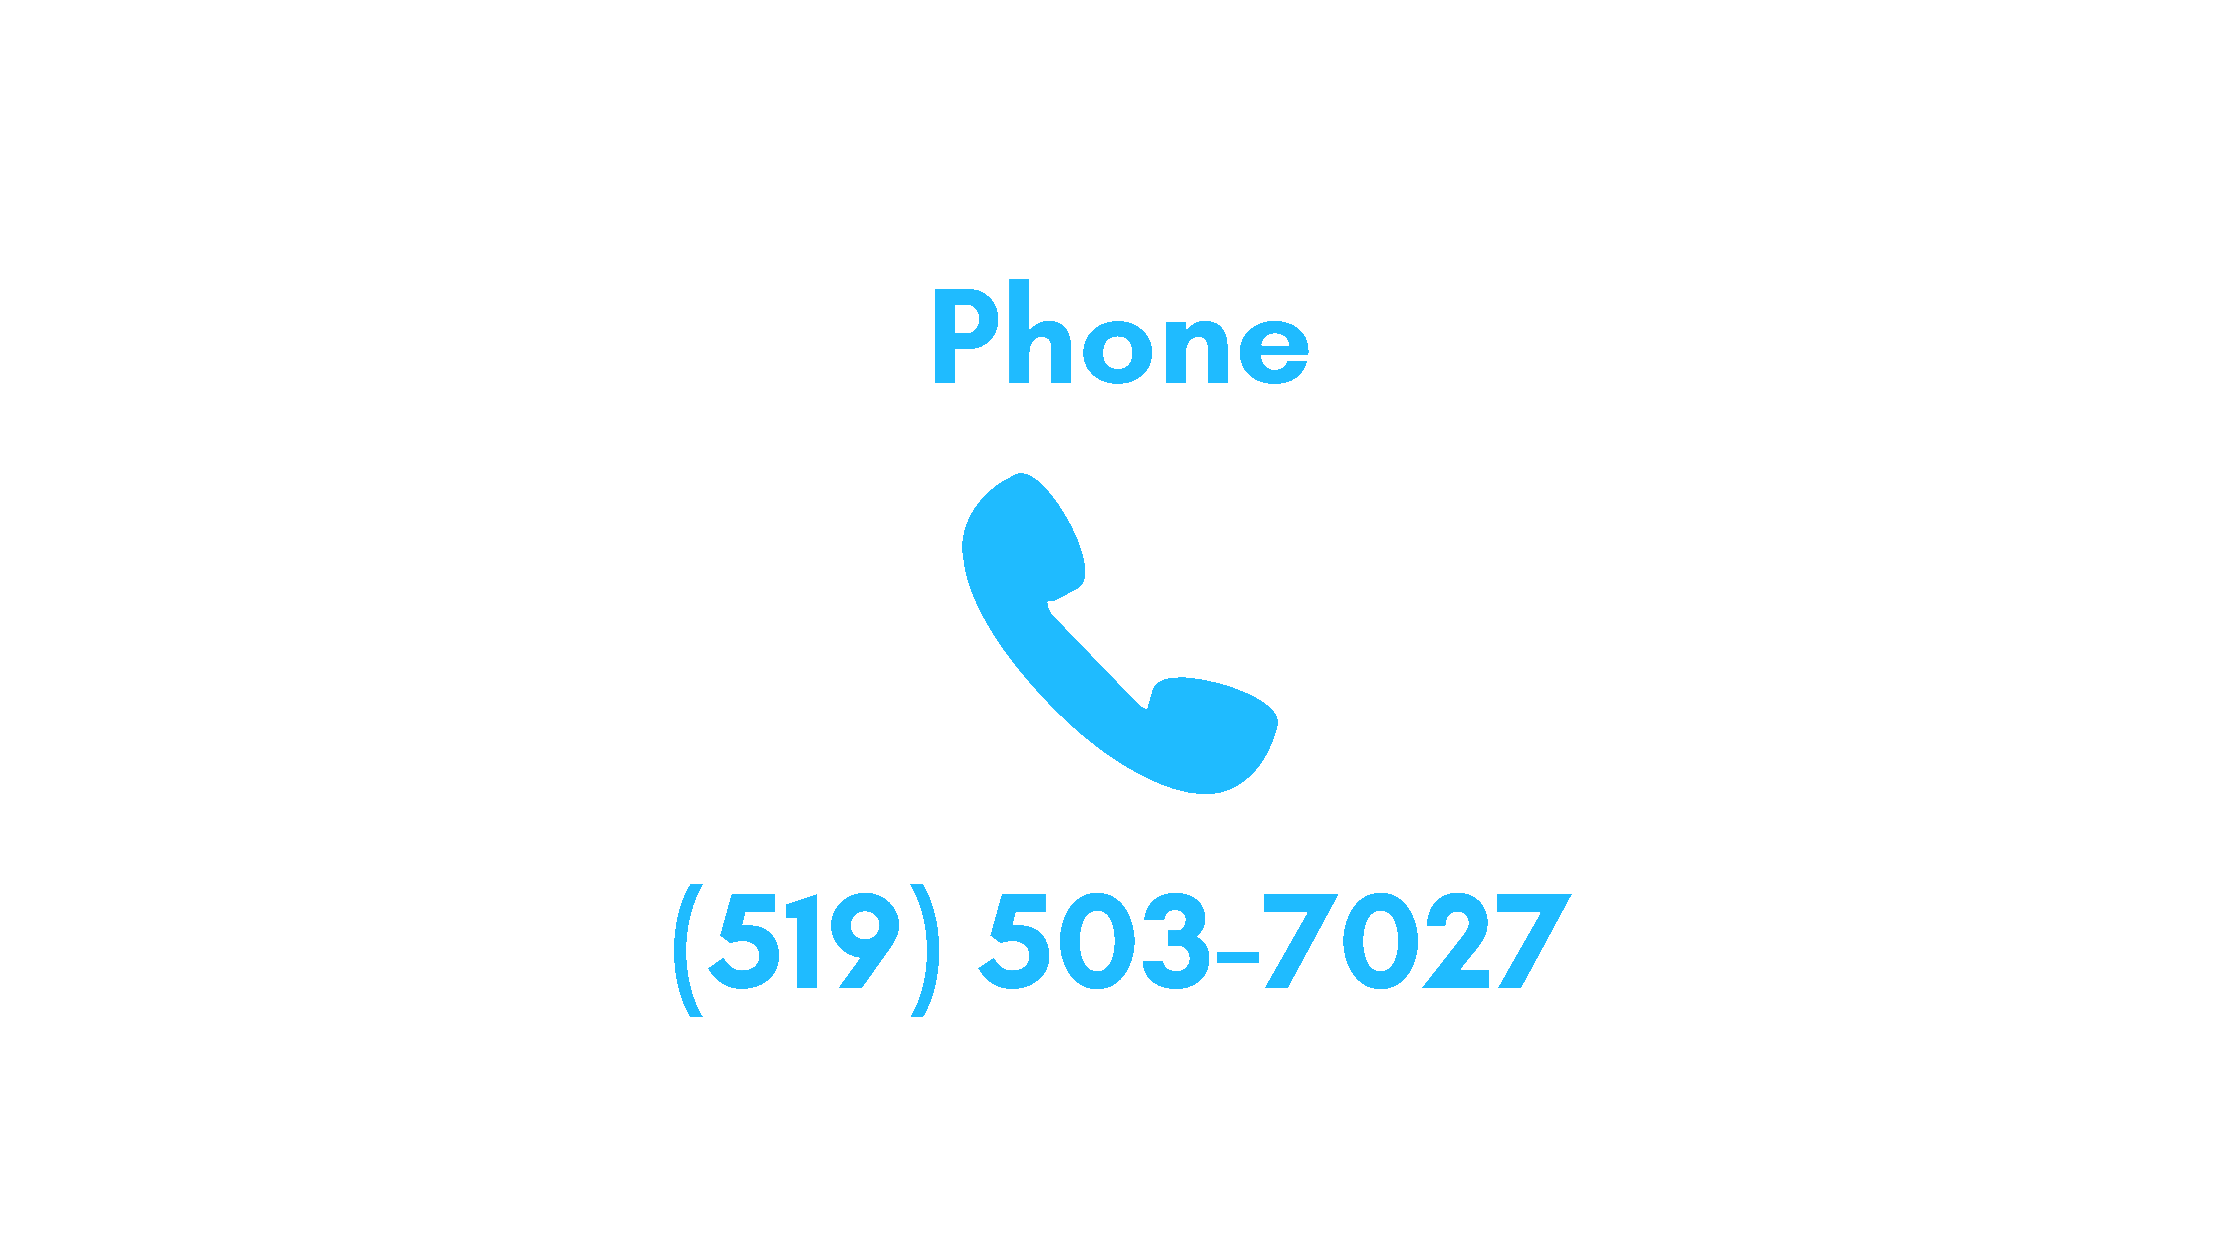
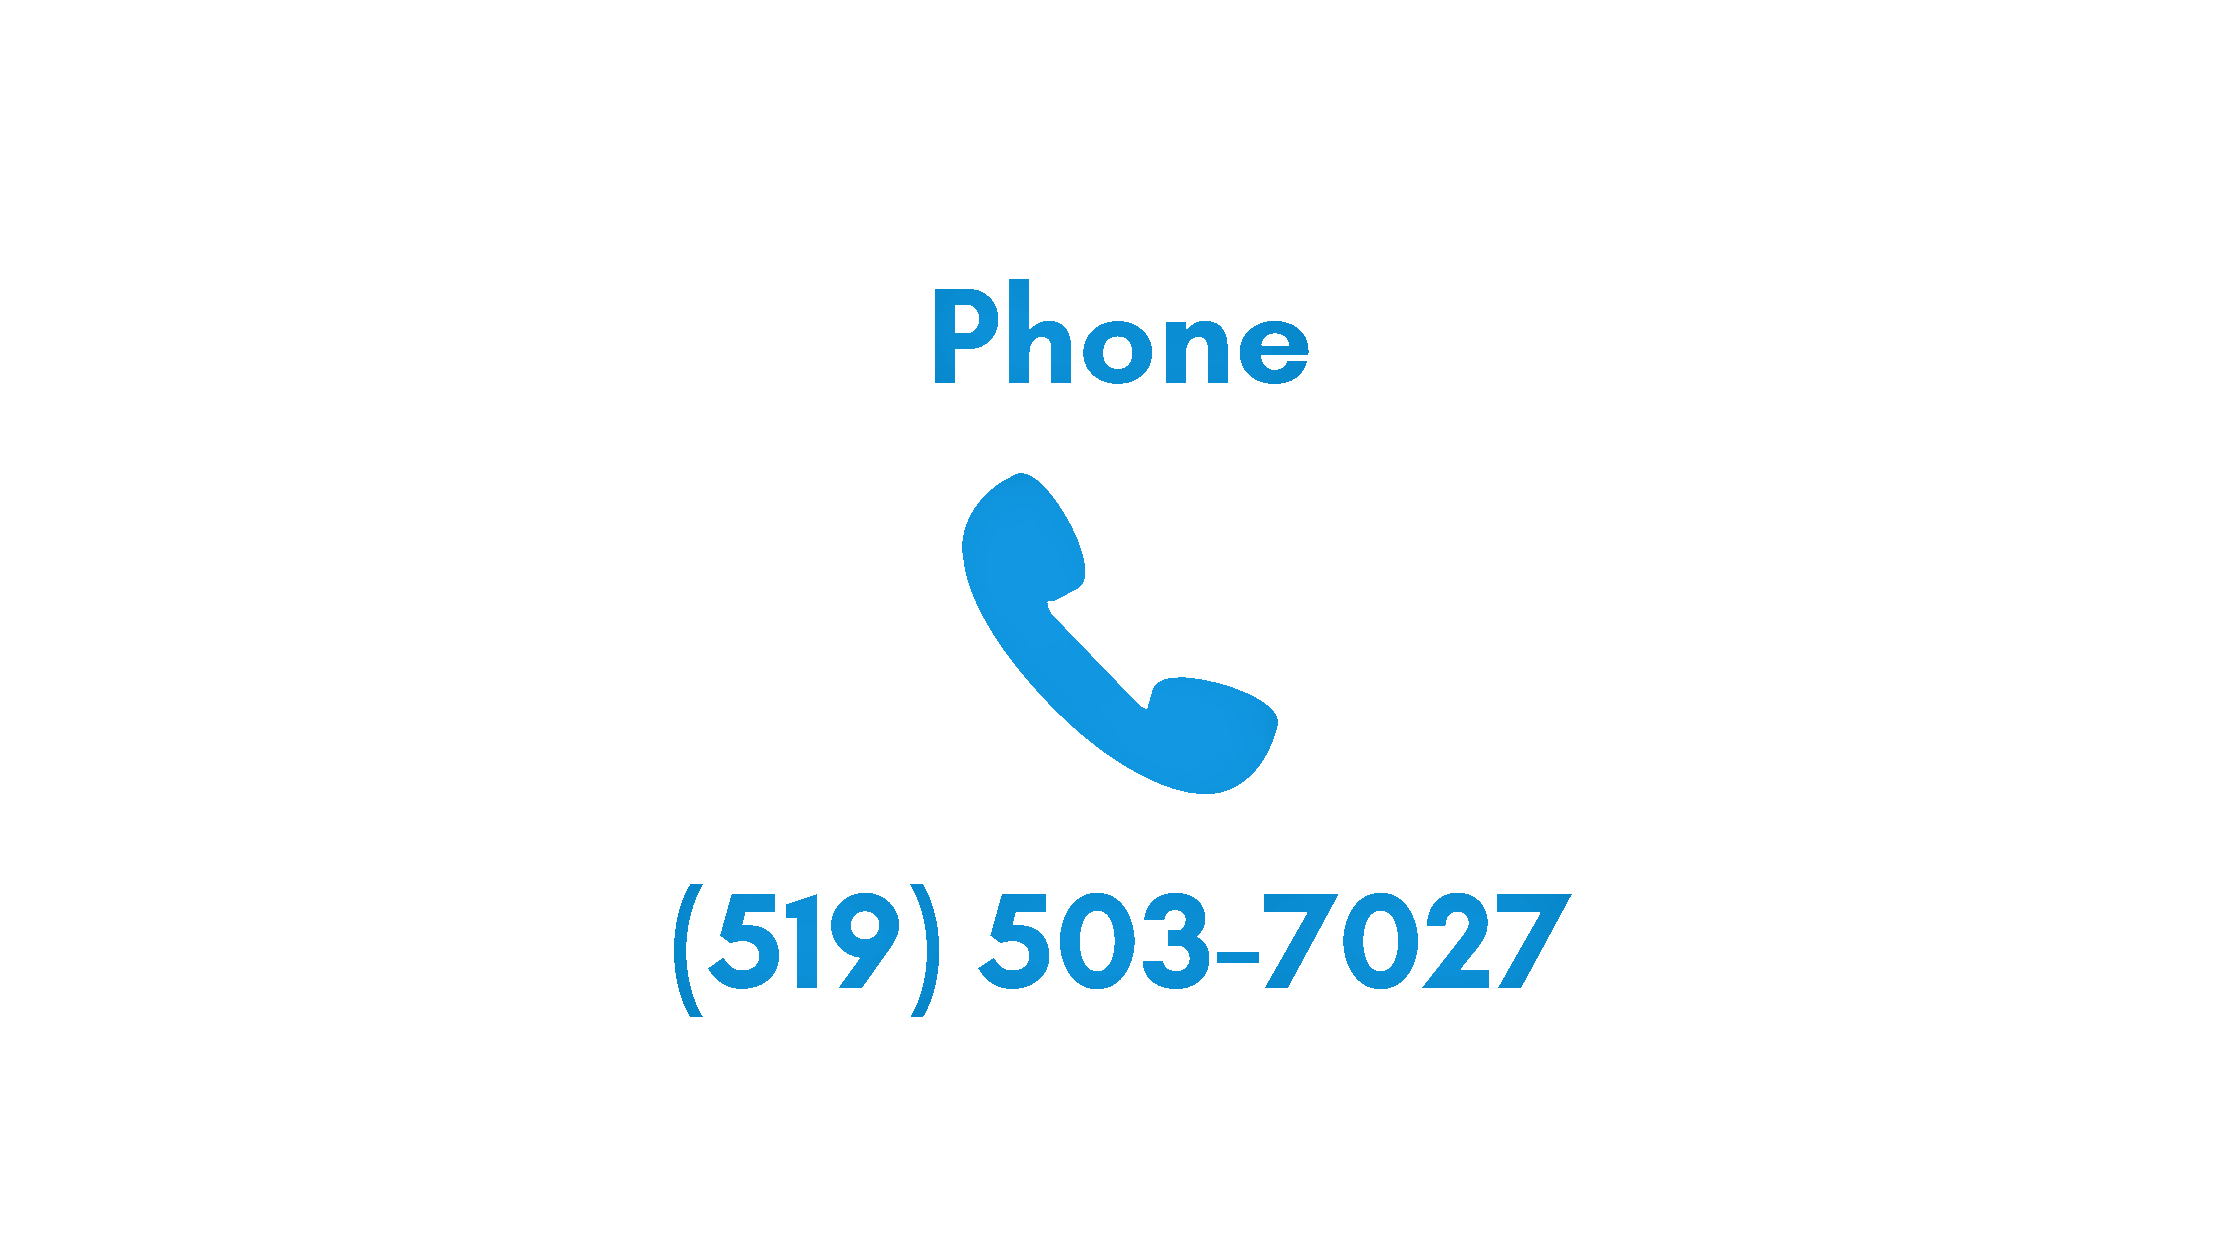
images+

Changed region(s): [[0.2812, 0.7119, 0.7188, 0.8048], [0.4062, 0.3714, 0.5938, 0.65], [0.4062, 0.2167, 0.5938, 0.3095]]

diff --git a/assets/css/styles.css b/assets/css/styles.css
@@ -1,2 +1,2 @@
 /*Minified by Sayma Khan*/
-@import url(https://fonts.googleapis.com/css2?family=Poppins:wght@400;600;700&display=swap);:root{--header-height:3.3rem;--font-semi:600}:root{--home-bg:url('../img/main/day.png')}:root{--title-color:#c8e3f8;--first-color:#4070F4;--second-color:#03022b;--white-color:#ffffff;--social-color-hover:#c8e3f8;--social-color:#5993df;--ombre1:#99ccff;--ombre2:#ffcc99}:root{--body-font:'Poppins',sans-serif;--big-font-size:2.5rem;--h2-font-size:1.25rem;--normal-font-size:0.938rem;--mini-font-size:1rem}@media screen and (min-width:768px){:root{--big-font-size:2.5rem;--h2-font-size:2rem;--normal-font-size:1rem;--mini-font-size:1rem}}:root{--mb-1:0.5rem;--mb-2:1rem;--mb-3:1.5rem;--mb-4:2rem;--mb-5:2.5rem;--mb-6:3rem}:root{--z-back:-10;--z-normal:1;--z-tooltip:10;--z-fixed:100}*,::after,::before{box-sizing:border-box}html{scroll-behavior:smooth}body{margin:var(--header-height) 0 0 0;font-family:var(--body-font);font-size:var(--normal-font-size);color:var(--second-color)}h1,h2,p{margin:0}ul{margin:0;padding:0;list-style:none}a{text-decoration:none}img{max-width:100%;height:auto;display:block}.section-title{position:relative;font-size:var(--h2-font-size);color:var(--first-color);margin-top:var(--mb-2);margin-bottom:var(--mb-4);text-align:center}.section-title::after{position:absolute;content:"";width:64px;height:.18rem;left:0;right:0;margin:auto;top:2rem;background-color:var(--first-color)}.section{padding-top:3rem;padding-bottom:2rem}.bd-grid{max-width:1024px;display:grid;grid-template-columns:100%;grid-column-gap:2rem;width:calc(100% - 2rem);margin-left:var(--mb-2);margin-right:var(--mb-2)}.l-header{width:100%;position:fixed;top:0;left:0;z-index:var(--z-fixed);background:url(../img/main/bgnav4.gif);box-shadow:0 1px 4px rgba(146,161,176,.15);background-color:#fff}.l-header{width:100%;position:fixed;top:0;left:0;z-index:var(--z-fixed);background-color:#fff;box-shadow:0 1px 4px rgba(146,161,176,.15)}.nav{height:var(--header-height);display:flex;justify-content:space-between;align-items:center;font-weight:var(--font-semi)}@media screen and (max-width:768px){.nav__menu{position:fixed;top:var(--header-height);right:-100%;width:80%;height:100%;padding:2rem;background-color:var(--second-color);transition:.5s}}.nav__item{margin-bottom:var(--mb-4)}.nav__link{position:relative;color:#fff}.nav__link:hover{position:relative}.nav__link:hover::after{position:absolute;content:"";width:100%;height:.18rem;left:0;top:2rem;background-color:var(--first-color)}.nav__logo{color:var(--second-color)}.nav__toggle{color:var(--second-color);font-size:1.5rem;cursor:pointer}.active::after{position:absolute;content:"";width:100%;height:.18rem;left:0;top:2rem;background-color:var(--first-color)}.show{right:0}.home{height:calc(100vh - 3rem);row-gap:1rem}.about__container{row-gap:2rem;text-align:left}.home__data{align-self:center}.home__title{font-size:var(--big-font-size);margin-bottom:var(--mb-5);color:#d3eafc;text-shadow:#0f0f10 2px 0 25px}.home__title-color{color:#57b1cc}.home__social{display:flex;flex-direction:column}.home__social-icon{width:max-content;margin-bottom:var(--mb-2);font-size:2.5rem;color:var(--social-color)}.mode__icon{width:max-content;margin-bottom:var(--mb-2);font-size:1.5rem}.home__social-icon:hover{color:var(--social-color-hover)}.home__img{position:absolute;right:0;bottom:0;width:295px}.home__img img{width:450px;border-radius:.5rem}.button{display:inline-block;background-color:var(--first-color);color:#fff;padding:.75rem 2.5rem;font-weight:var(--font-semi);border-radius:.5rem}.button:hover{box-shadow:0 10px 36px rgba(0,0,0,.15)}.about__container{row-gap:2rem;text-align:center}.about__subtitle{margin-bottom:var(--mb-2)}.about__img img{border-radius:.5rem}.about__text{text-shadow:0 10px 36px rgba(255,255,255,.2);font-size:1.1rem;text-align:justify}.skills__container{row-gap:2rem}.skills__subtitle{color:var(--first-color);margin-bottom:var(--mb-3)}.skills__name{display:inline-block;font-size:var(--mini-font-size);margin-right:var(--mb-2);margin-bottom:var(--mb-3);padding:.25rem .5rem;border-radius:.25rem;transition:.3s}.skills__name:hover{background-color:var(--first-color);color:var(--white-color);box-shadow:0 4px 25px rgba(28,28,28,.3)}.skills__img img{border-radius:.5rem}.work__container{row-gap:2rem}.work__img{box-shadow:0 4px 25px rgba(28,28,28,.4);border-radius:.5rem;overflow:hidden}.work__img img{transition:1s;cursor:pointer}.work__img img:hover{transform:scale(1.1)}.contact__input{width:100%;font-size:var(--normal-font-size);font-weight:var(--font-semi);padding:1rem;border-radius:.5rem;border:1.5px solid var(--second-color);outline:0;margin-bottom:var(--mb-4)}.contact__button{display:block;border:none;outline:0;font-size:var(--normal-font-size);cursor:pointer;margin-left:auto}.contact__img{border-radius:.5rem;overflow:hidden}.contact__img img{transition:1s;cursor:pointer}.contact__img img:hover{transform:scale(1.1)}.footer{background-color:var(--second-color);background:url(../img/main/bgnav.gif);box-shadow:0 1px 4px rgba(146,161,176,.15);color:#fff;text-align:center;font-weight:var(--font-semi);padding:1rem 0}.footer__title{font-size:2rem;margin-bottom:var(--mb-4)}.footer__social{margin-bottom:var(--mb-4)}.footer__icon{font-size:1.5rem;color:#fff;margin:0 var(--mb-2)}@media screen and (min-width:768px){body{margin:0}.section{padding-top:4rem;padding-bottom:3rem}.section-title{margin-bottom:var(--mb-6)}.section-title::after{width:80px;top:3rem}.nav{height:calc(var(--header-height) + 1rem)}.nav__list{display:flex;padding-top:0}.nav__item{margin-left:var(--mb-6);margin-bottom:0}.nav__toggle{display:none}.nav__link{color:var(--second-color)}.home{height:100vh}.home__data{align-self:flex-end}.home__social{padding-top:0;padding-bottom:2.5rem;flex-direction:row;align-self:flex-end}.home__social-icon{margin-bottom:0;margin-right:var(--mb-4)}.home__img{width:457px;bottom:15%}.about__container,.skills__container{grid-template-columns:repeat(2,1fr);align-items:center;text-align:initial}.about__img img{width:350px}.work__container{grid-template-columns:repeat(3,1fr);grid-template-rows:repeat(1,1fr);column-gap:2rem}.contact__form{width:360px}.contact__container{justify-items:center}}@media screen and (min-width:1024px){.bd-grid{margin-left:auto;margin-right:auto}.home__img{right:10%}}.dark-mode{background-color:#1c1c1c;color:#c8e3f8;--first-color:#7daae6;--home-bg:url('../img/main/night.png');--ombre1:#990099;--ombre2:#003399}.switch{position:relative;display:inline-block;width:60px;height:34px}.switch input{opacity:0;width:0;height:0}.slider{position:absolute;cursor:pointer;top:0;left:0;right:0;bottom:0;background-color:#ccc;-webkit-transition:.4s;transition:.4s}.slider:before{position:absolute;content:"";height:26px;width:26px;left:4px;bottom:4px;background-color:#fff;-webkit-transition:.4s;transition:.4s}input:checked+.slider{background-color:#4070f4}input:focus+.slider{box-shadow:0 0 1px #4070f4}input:checked+.slider:before{-webkit-transform:translateX(26px);-ms-transform:translateX(26px);transform:translateX(26px)}.slider.round{border-radius:34px}.slider.round:before{border-radius:50%}.tooltip{position:relative;display:inline-block}.tooltip .tooltiptext{visibility:hidden;width:170px;background-color:#02aac7;color:#fff;box-shadow:0 10px 36px rgba(3,0,9,.357);text-align:center;border-radius:6px;padding:5px 0;position:absolute;z-index:1;bottom:90%;left:50%;margin-left:-85px}.tooltip .tooltiptext::after{content:"";position:absolute;top:100%;left:50%;font-size:15px;margin-left:-5px;border-width:5px;border-style:solid;border-color:#02aac7 transparent transparent transparent}.tooltip:hover .tooltiptext{visibility:visible}.parallax{background-image:var(--home-bg);min-height:500px;background-attachment:fixed;background-position:center;background-repeat:no-repeat;background-size:cover}@media only screen and (max-width:760px){#mobile{color:#4070f4;text-shadow:none}#profile-picture{opacity:1}#home{padding-top:3rem;padding-bottom:2rem;background:linear-gradient(to bottom,var(--ombre1) 0,var(--ombre2) 100%);min-height:500px}}
+@import url(https://fonts.googleapis.com/css2?family=Poppins:wght@400;600;700&display=swap);:root{--header-height:3.3rem;--font-semi:600}:root{--home-bg:url('../img/main/day.png')}:root{--title-color:#c8e3f8;--first-color:#4070F4;--second-color:#03022b;--white-color:#ffffff;--social-color-hover:#c8e3f8;--social-color:#5993df;--ombre1:#99ccff;--ombre2:#ffcc99}:root{--body-font:'Poppins',sans-serif;--big-font-size:2.5rem;--h2-font-size:1.25rem;--normal-font-size:0.938rem;--mini-font-size:1rem}@media screen and (min-width:768px){:root{--big-font-size:2.5rem;--h2-font-size:2rem;--normal-font-size:1rem;--mini-font-size:1rem}}:root{--mb-1:0.5rem;--mb-2:1rem;--mb-3:1.5rem;--mb-4:2rem;--mb-5:2.5rem;--mb-6:3rem}:root{--z-back:-10;--z-normal:1;--z-tooltip:10;--z-fixed:100}*,::after,::before{box-sizing:border-box}html{scroll-behavior:smooth}body{margin:var(--header-height) 0 0 0;font-family:var(--body-font);font-size:var(--normal-font-size);color:var(--second-color)}h1,h2,p{margin:0}ul{margin:0;padding:0;list-style:none}a{text-decoration:none}img{max-width:100%;height:auto;display:block}.section-title{position:relative;font-size:var(--h2-font-size);color:var(--first-color);margin-top:var(--mb-2);margin-bottom:var(--mb-4);text-align:center}.section-title::after{position:absolute;content:"";width:64px;height:.18rem;left:0;right:0;margin:auto;top:2rem;background-color:var(--first-color)}.section{padding-top:3rem;padding-bottom:2rem}.bd-grid{max-width:1024px;display:grid;grid-template-columns:100%;grid-column-gap:2rem;width:calc(100% - 2rem);margin-left:var(--mb-2);margin-right:var(--mb-2)}.l-header{width:100%;position:fixed;top:0;left:0;z-index:var(--z-fixed);background:url(../img/main/bgnav4.gif);box-shadow:0 1px 4px rgba(146,161,176,.15);background-color:#fff}.l-header{width:100%;position:fixed;top:0;left:0;z-index:var(--z-fixed);background-color:#fff;box-shadow:0 1px 4px rgba(146,161,176,.15)}.nav{height:var(--header-height);display:flex;justify-content:space-between;align-items:center;font-weight:var(--font-semi)}@media screen and (max-width:768px){.nav__menu{position:fixed;top:var(--header-height);right:-100%;width:80%;height:100%;padding:2rem;background-color:var(--second-color);transition:.5s}}.nav__item{margin-bottom:var(--mb-4)}.nav__link{position:relative;color:#fff}.nav__link:hover{position:relative}.nav__link:hover::after{position:absolute;content:"";width:100%;height:.18rem;left:0;top:2rem;background-color:var(--first-color)}.nav__logo{color:var(--second-color)}.nav__toggle{color:var(--second-color);font-size:1.5rem;cursor:pointer}.active::after{position:absolute;content:"";width:100%;height:.18rem;left:0;top:2rem;background-color:var(--first-color)}.show{right:0}.home{height:calc(100vh - 3rem);row-gap:1rem}.about__container{row-gap:2rem;text-align:left}.home__data{align-self:center}.home__title{font-size:var(--big-font-size);margin-bottom:var(--mb-5);color:#d3eafc;text-shadow:#0f0f10 2px 0 25px}.home__title-color{color:#57b1cc}.home__social{display:flex;flex-direction:column}.home__social-icon{width:max-content;margin-bottom:var(--mb-2);font-size:2.5rem;color:var(--social-color)}.mode__icon{width:max-content;margin-bottom:var(--mb-2);font-size:1.5rem}.home__social-icon:hover{color:var(--social-color-hover)}.home__img{position:absolute;right:0;bottom:0;width:295px}.home__img img{width:450px;border-radius:.5rem}.button{display:inline-block;background-color:var(--first-color);color:#fff;padding:.75rem 2.5rem;font-weight:var(--font-semi);border-radius:.5rem}.button:hover{box-shadow:0 10px 36px rgba(0,0,0,.15)}.about__container{row-gap:2rem;text-align:center}.about__subtitle{margin-bottom:var(--mb-2)}.about__img img{border-radius:.5rem}.about__text{text-shadow:0 10px 36px rgba(255,255,255,.2);font-size:1.1rem;text-align:justify}.skills__container{row-gap:2rem}.skills__subtitle{color:var(--first-color);margin-bottom:var(--mb-3)}.skills__name{display:inline-block;font-size:var(--mini-font-size);margin-right:var(--mb-2);margin-bottom:var(--mb-3);padding:.25rem .5rem;border-radius:.25rem;transition:.3s}.skills__name:hover{background-color:var(--first-color);color:var(--white-color);box-shadow:0 4px 25px rgba(28,28,28,.3)}.skills__img img{border-radius:.5rem}.work__container{row-gap:2rem}.work__img{box-shadow:0 4px 25px rgba(28,28,28,.4);border-radius:.5rem;overflow:hidden}.work__img img{transition:1s;cursor:pointer}.work__img img:hover{transform:scale(1.1)}.contact__input{width:100%;font-size:var(--normal-font-size);font-weight:var(--font-semi);padding:1rem;border-radius:.5rem;border:1.5px solid var(--second-color);outline:0;margin-bottom:var(--mb-4)}.contact__button{display:block;border:none;outline:0;font-size:var(--normal-font-size);cursor:pointer;margin-left:auto}.contact__img{border-radius:.5rem;overflow:hidden}.contact__img img{transition:1s;cursor:pointer}.contact__img img:hover{transform:scale(1.1)}.footer{background-color:var(--second-color);background:url(../img/main/bgnav.gif);box-shadow:0 1px 4px rgba(146,161,176,.15);color:#fff;text-align:center;font-weight:var(--font-semi);padding:1rem 0}.footer__title{font-size:2rem;margin-bottom:var(--mb-4)}.footer__social{margin-bottom:var(--mb-4)}.footer__icon{font-size:1.5rem;color:#fff;margin:0 var(--mb-2)}@media screen and (min-width:768px){body{margin:0}.section{padding-top:4rem;padding-bottom:3rem}.section-title{margin-bottom:var(--mb-6)}.section-title::after{width:80px;top:3rem}.nav{height:calc(var(--header-height) + 1rem)}.nav__list{display:flex;padding-top:0}.nav__item{margin-left:var(--mb-6);margin-bottom:0}.nav__toggle{display:none}.nav__link{color:var(--second-color)}.home{height:100vh}.home__data{align-self:flex-end}.home__social{padding-top:0;padding-bottom:2.5rem;flex-direction:row;align-self:flex-end}.home__social-icon{margin-bottom:0;margin-right:var(--mb-4)}.home__img{width:457px;bottom:15%}.about__container,.skills__container{grid-template-columns:repeat(2,1fr);align-items:center;text-align:initial}.about__img img{width:350px}.work__container{grid-template-columns:repeat(3,1fr);grid-template-rows:repeat(1,1fr);column-gap:2rem}.contact__form{width:360px}.contact__container{justify-items:center}}@media screen and (min-width:1024px){.bd-grid{margin-left:auto;margin-right:auto}.home__img{right:10%}}.dark-mode{background-color:#1c1c1c;color:#c8e3f8;--first-color:#7daae6;--home-bg:url('../img/main/night.png');--ombre2:#910f91;--ombre1:#003399}.switch{position:relative;display:inline-block;width:60px;height:34px}.switch input{opacity:0;width:0;height:0}.slider{position:absolute;cursor:pointer;top:0;left:0;right:0;bottom:0;background-color:#ccc;-webkit-transition:.4s;transition:.4s}.slider:before{position:absolute;content:"";height:26px;width:26px;left:4px;bottom:4px;background-color:#fff;-webkit-transition:.4s;transition:.4s}input:checked+.slider{background-color:#4070f4}input:focus+.slider{box-shadow:0 0 1px #4070f4}input:checked+.slider:before{-webkit-transform:translateX(26px);-ms-transform:translateX(26px);transform:translateX(26px)}.slider.round{border-radius:34px}.slider.round:before{border-radius:50%}.tooltip{position:relative;display:inline-block}.tooltip .tooltiptext{visibility:hidden;width:170px;background-color:#1397e2;color:#fff;box-shadow:0 10px 36px rgba(3,0,9,.357);text-align:center;border-radius:6px;padding:5px 0;position:absolute;z-index:1;bottom:90%;left:50%;margin-left:-85px}.tooltip .tooltiptext::after{content:"";position:absolute;top:100%;left:50%;font-size:15px;margin-left:-5px;border-width:5px;border-style:solid;border-color:#1397e2 transparent transparent transparent}.tooltip:hover .tooltiptext{visibility:visible}.parallax{background-image:var(--home-bg);min-height:500px;background-attachment:fixed;background-position:center;background-repeat:no-repeat;background-size:cover}@media only screen and (max-width:760px){#mobile{color:#910f91;text-shadow:none}#profile-picture{opacity:1}#home{padding-top:3rem;padding-bottom:2rem;background:linear-gradient(to bottom,var(--ombre1) 0,var(--ombre2) 100%);min-height:500px}}
